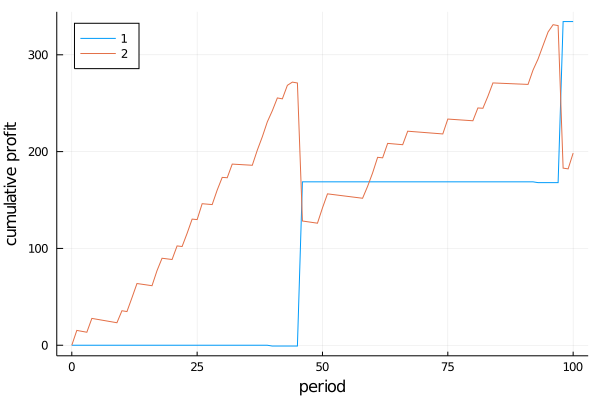
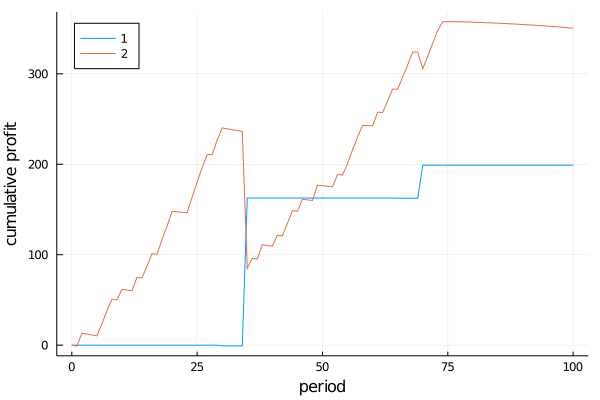
added Bill of materials producers can now be intermediate nodes

diff --git a/README.md b/README.md
@@ -7,9 +7,9 @@
 ## Overview
 
 *InventoryManagement.jl* allows modeling a [make-to-order](en.wikipedia.org/wiki/Build_to_order) multi-period multi-product supply network. A supply network can be constructed using the following node types:
-- `Producers`: Nodes where inventory transformation takes place (e.g., intermediates or final products are produced). These are the top-most (source) nodes in the network.
+- `Producers`: Nodes where inventory transformation takes place (e.g., intermediates or final products are produced).
 - `Distributors`: Intermediate nodes where inventory is stored and distributed (e.g., distribution centers).
-- `Markets`: Nodes where end-customers place final product orders. These are the last  (sink) nodes in the network.
+- `Markets`: Nodes where end-customers place final product orders. These are the last (sink) nodes in the network.
 
 The simplest network that can be modeled is one with a single market with one producer or distributor. However, more complex systems can be modelled as well.
 
@@ -30,9 +30,9 @@ This package generalizes and extends and the inventory management environment av
 
 The following sequence of events occurs in each period of the simulation:
 1. Start period.
-2. Place inventory replenishment orders at each node. These are limited to the available production capacity (supplier is a producer) or available inventory (supplier is a distribution node). If `reallocate = true`, then any amount that cannot be satisfied is reallocated to the next priority supplier.
+2. Place inventory replenishment orders at each node. These are limited to the available production capacity (supplier is a producer) or available inventory. If `reallocate = true`, then any amount that cannot be satisfied is reallocated to the next priority supplier.
    - Distributors ship inventory.
-   - Producers manufacture products (a production lead time begins). Production costs are incurred at the start of production.
+   - Producers attempt to satisfy order with any on-hand inventory and then manufacture products for any amount remaining (a production lead time begins). Production costs are incurred at the start of production.
    - Producers send orders that have completed (after the production lead time).
 4. Receive inventory that has arrived at each node (after the lead time has transpired).
 5. Pay suppliers for inventory received.
@@ -46,18 +46,17 @@ The following sequence of events occurs in each period of the simulation:
 
 The following assumptions hold in the current implementation, but can be modified in future releases.
 
-- `Producers` do not hold inventory.
-- `Producers` have unlimitted supply of raw materials.
 - `Producers` produce material on demand (`make-to-order`).
 - Replenishment orders can only be satisfied with current on-hand inventory or available production capacity.
 - Backlogging is only allowed at the `Markets`, it is not allowed for inventory replenishment decisions.
+- Transportation costs are paid to a third party (not a node in the network).
 
 ## Model Limitations
 
 The following are not currently supported:
 
-- Bill of Materials at `Producers`
-- `Producers` at intermediate locations.
+- ~~Bill of Materials at `Producers`~~
+- ~~`Producers` at intermediate locations.~~
 
 ## Inventory replenishment policies
 
@@ -80,9 +79,13 @@ The `reorder_policy` takes the following inputs and returns an `action` vector.
 ### Node-specific
 
 `Producers` will have the following fields in their node metadata:
+- `:initial_inventory::Dict`: initial inventory for each product (`keys`)
+- `:holding_cost::Dict`: unit holding cost for each product (`keys`)
+- `:supplier_priority::Dict`: (*only when the node has at least 1 supplier*) `Vector` of supplier priorities (from high to low) for each product (`keys`). When a request cannot be fulfilled due to insufficient productio capacity or on-hand inventory, the system will try to reallocate it to the supplier that is next in line on the priority list (if `env.reallocate == true`).
 - `:production_cost::Dict`: unit production cost for each product (`keys`)
 - `:production_capacity::Dict`: maximum production capacity for each product (`keys`).
 - `:production_time::Dict`: production lead time for each product (`keys`).
+- `:bill_of_materials::Dict`: bill of materials indicating the amount of units of each material required to make a single unit of each product (`keys`) as a NamedTuple (e.g., `:A => (A = 0, B = 1)` means that 1 unit of `:B` is used to produce a single unit of `:A`)
 
 `Distributors` will have the following fields in their node metadata:
 - `:initial_inventory::Dict`: initial inventory for each product (`keys`)
@@ -105,6 +108,10 @@ All edges have the following fields in their metadata:
 - `:transportation_cost::Dict`: unit transportation cost per period for inventory in-transit for each product (`keys`)
 - `:lead_time::Distribution{Univariate, Discrete}`: the lead time on each edge
 
+### Graph-specific
+
+The graph metadata should have a key `:products` with a list (`Vector`) of all materials in the system.
+
 ## Model Output
 
 A `SupplyChainEnv` has the following fields:
@@ -112,7 +119,7 @@ A `SupplyChainEnv` has the following fields:
 - `markets::Array`: list of market nodes
 - `producers::Array`: list of producer nodes
 - `distributors::Array`: list of distribution nodes (excludes end distributors where markets exist)
-- `products::Array`: list of product names (strings)
+- `products::Array`: list of all product (material) names (strings)
 - `inv_on_hand::DataFrame`: timeseries On Hand Inventory @ each node at the end of each period
 - `inv_pipeline::DataFramet`: timeseries Pipeline Inventory on each edge at the end of each period
 - `inv_position::DataFrame`: timeseries Inventory Position for each node at the end of each period
@@ -139,25 +146,30 @@ using InventoryManagement, StatsPlots
 
 #define network connectivity
 net = MetaDiGraph(path_digraph(2)) # 1 -> 2
-products = [:A]
+products = [:A, :B]
 set_prop!(net, :products, products)
 
 #specify parameters, holding costs and capacity, market demands and penalty for unfilfilled demand
-set_props!(net, 1, Dict(:production_cost => Dict(:A => 0.01),
-                        :production_time => Dict(:A => 0),
-                        :production_capacity => Dict(:A => Inf)))
+set_props!(net, 1, Dict(:initial_inventory => Dict(:A => 0, :B => 100),
+                        :holding_cost => Dict(:A => 0, :B => 0),
+                        :production_cost => Dict(:A => 0.01, :B => 0),
+                        :production_time => Dict(:A => 0, :B => 0),
+                        :production_capacity => Dict(:A => Inf, :B => 0),
+                        :bill_of_materials => Dict(:A => (A = 0, B = 1),
+                                                   :B => (A = 0, B = 0))))
 
-set_props!(net, 2, Dict(:initial_inventory => Dict(:A => 100),
-                        :holding_cost => Dict(:A => 0.01),
-                        :demand_distribution => Dict(:A => Normal(5,0.5)),
-                        :demand_frequency => Dict(:A => 0.5),
-                        :sales_price => Dict(:A => 3),
-                        :demand_penalty => Dict(:A => 0.01),
-                        :supplier_priority => Dict(:A => [1])))
+set_props!(net, 2, Dict(:initial_inventory => Dict(:A => 100, :B => 0),
+                        :holding_cost => Dict(:A => 0.01, :B => 0),
+                        :demand_distribution => Dict(:A => Normal(5,0.5),
+                                                     :B => zeros(2)),
+                        :demand_frequency => Dict(:A => 0.5, :B => 0),
+                        :sales_price => Dict(:A => 3, :B => 0),
+                        :demand_penalty => Dict(:A => 0.01, :B => 0),
+                        :supplier_priority => Dict(:A => [1], :B => [1])))
 
 #specify sales prices, transportation costs, lead time
-set_props!(net, 1, 2, Dict(:sales_price => Dict(:A => 2),
-                          :transportation_cost => Dict(:A => 0.01),
+set_props!(net, 1, 2, Dict(:sales_price => Dict(:A => 2, :B => 2),
+                          :transportation_cost => Dict(:A => 0.01, :B => 0),
                           :lead_time => Poisson(5)))
 
 #create environment
@@ -167,8 +179,8 @@ env = SupplyChainEnv(net, num_periods)
 #define reorder policy parameters
 policy = :sS #(s, S) policy
 on = :position #monitor inventory position
-s = Dict((2,:A) => 20) #lower bound on inventory
-S = Dict((2,:A) => 100) #base stock level
+s = Dict((2,:A) => 20, (2,:B) => 0) #lower bound on inventory
+S = Dict((2,:A) => 100, (2,:B) => 0) #base stock level
 
 #run simulation with reorder policy
 for t in 1:env.num_periods
@@ -184,8 +196,7 @@ fig1 = @df profit plot(:period, :value_cumsum, group=:node, legend = :topleft,
                     xlabel="period", ylabel="cumulative profit")
 
 #inventory position
-inv_position = filter(i -> i.node in union(env.distributors, env.markets), env.inv_position)
-fig2 = @df inv_position plot(:period, :level, group=(:node, :product), linetype=:steppost,
+fig2 = @df env.inv_position plot(:period, :level, group=(:node, :product), linetype=:steppost,
                     xlabel="period", ylabel="inventory position")
 
 ```
